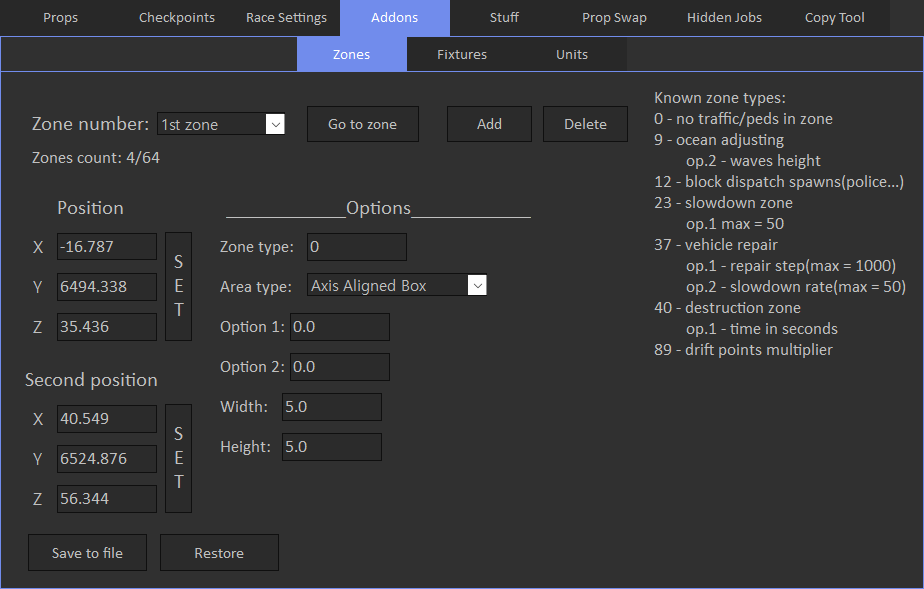
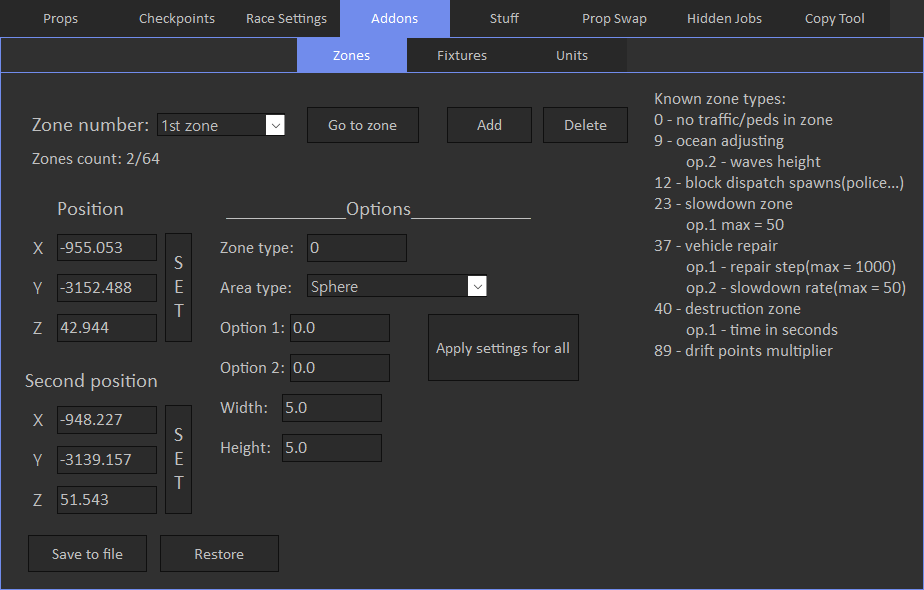
updates

diff --git a/docs/props/advanced-restore.md b/docs/props/advanced-restore.md
@@ -10,7 +10,7 @@ If 'Overwrite exising' checkbox is checked, exising items will be replaced with 
 
 If 'Keep original position' checkbox is checked, reference position will be ignored.
 
-Supported restore options are props, dynamic props and checkpoints and others.
+You can specify restore range of the items. This range is applied to the file.
 
 Supported formats for XML maps are Spooner and Map Editor.
 
@@ -40,6 +40,8 @@ You can move whole map in one click with 'Move whole map' option.
 For example, if you want to move map upwards, you need to specify only positive Z value and set other ones to 0.
 
 You can also rotate whole map if you specify Heading. In this case, map will be rotated around first prop.
+
+You can toggle items that will be moved and also specify ranges for them.
 
 **Note**: rotate map will not work correctly for zones with type 'Axis alligned box' because it cannot be rotated.
 

diff --git a/docs/addons/zones/overview.md b/docs/addons/zones/overview.md
@@ -24,6 +24,8 @@ You can change it's size by editing Width field.
 Also some zones can be configures with Option 1 and Option 2 fields.
 You can see what each option does in the Known zone types hint in the tool.
 
+You can apply zone settings for all zones, except for position, width and height.
+
 Worth noticing that bottom Z coordinate should be a little below water/ground, for zone types like waves adjusting.<br>
 It makes sure that zone will fully cover the area.
 

diff --git a/docs/prop-swap/models/overview.md b/docs/prop-swap/models/overview.md
@@ -15,3 +15,5 @@ also it's faster to switch between multiple packs that you often use by pressing
 
 'Make active' checkbox makes selected prop pack active, and it will be auto restored if 'Restore active on tool startup' checkbox is active, but it does not restore pack instantly.<br>
 If you want to restore in-memory saved pack, press 'Restore selected' button.
+
+You can restore prop pack by double clicking on it.
